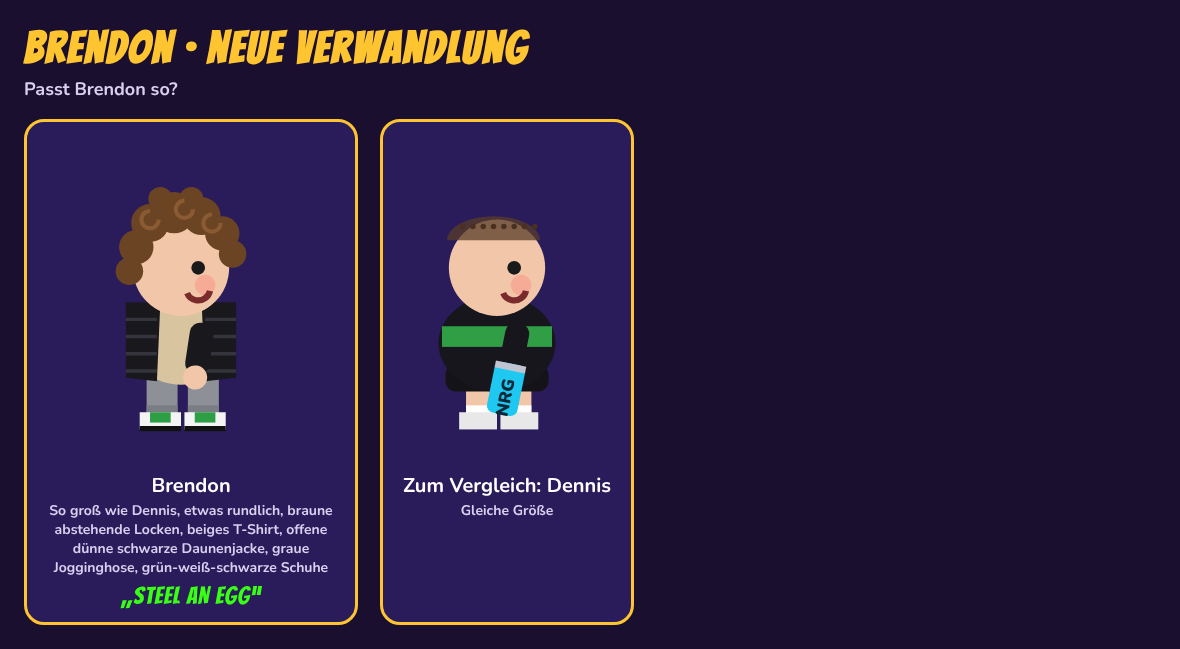
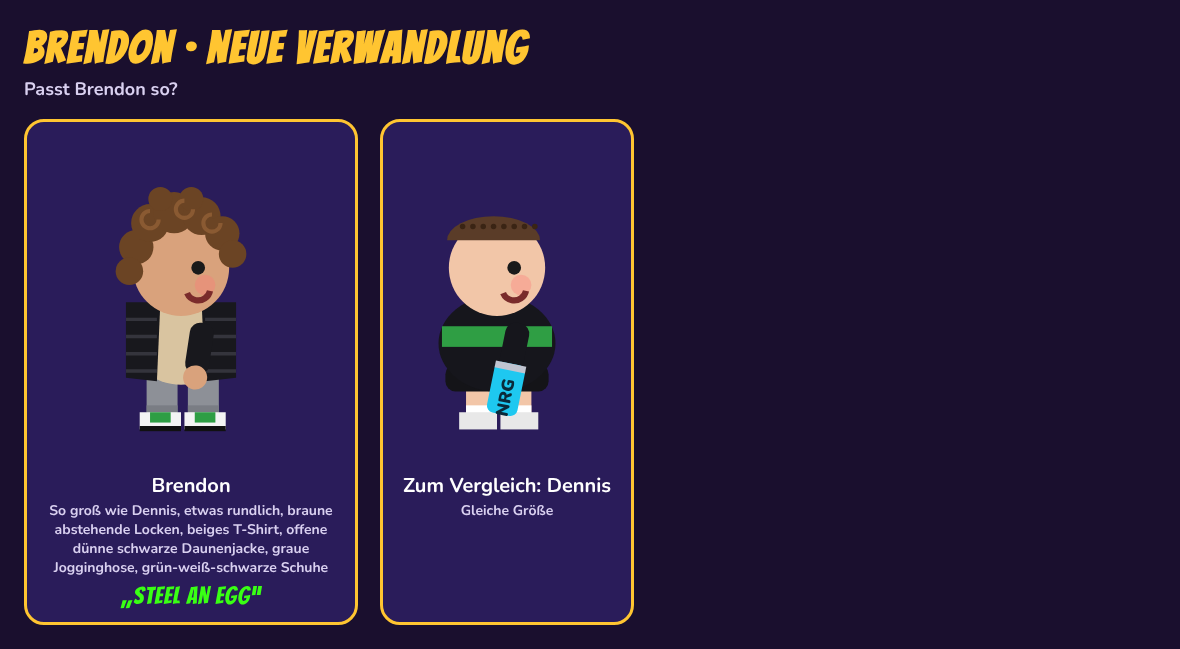
Schnitzel game: Brendon in randomizer, darker skin; solid Dennis hair; sharper pixel previews
Claude-Session: https://claude.ai/code/session_01KzaX9nFBeb8gAYhtxjVcqD

Changed region(s): [[0.0915, 0.339, 0.2136, 0.4931], [0.3966, 0.339, 0.4576, 0.3698], [0.1525, 0.5547, 0.1831, 0.6163]]

diff --git a/kaskade/web/tim-und-das-xxl-schnitzel.html b/kaskade/web/tim-und-das-xxl-schnitzel.html
@@ -475,7 +475,7 @@ function helpModal(back) {
     <li><b>Wandsprung:</b> An eine Wand springen, Richtung Wand halten (du rutschst langsamer) und HOPP drücken. Danach ist dein Doppelsprung wieder aufgeladen. Höchstens 2 Wandsprünge, bevor du wieder auf dem Boden landest, und nie zweimal hintereinander an derselben Wand.</li>
     <li><b>Tastatur:</b> Pfeiltasten oder A/D, Leertaste oder W zum Springen, P für Pause.</li>
     <li><b>PING</b> (Taste F): Tischtennisbälle schießen. Im Bosskampf immer, sonst nur als Rolf.</li>
-    <li><b>2 XXL-Schnitzel</b> in einem Level verwandeln Tim für dieses Level zufällig in Rolf, Lena Laux oder Dennis.</li>
+    <li><b>2 XXL-Schnitzel</b> in einem Level verwandeln Tim für dieses Level zufällig in Rolf, Lena Laux, Dennis oder Brendon.</li>
     <li><b>Versteckte Outfits</b> liegen in schweren Extra-Passagen der Kapitel 4 bis 6. Anziehen kannst du sie im Menü unter „Outfits“.</li>
     <li><b>Grüne Tassen</b> sammeln. Alle 100 Tassen gibt es ein Extraleben.</li>
     <li><b>XXL-Schnitzel:</b> drei gut versteckte pro Level.</li>
@@ -702,6 +702,7 @@ function step() {
             G.form = "opa"; G.ttChar = TT_CHARS[Math.floor(Math.random() * TT_CHARS.length)];
             G.p.inv = Math.max(G.p.inv, 60); burst(p.x + p.w / 2, p.y + p.h / 2, "#ffffff", 40); sfx("boss");
             const nm = TT_NAMES[G.ttChar]; setTimeout(() => G && !G.done && banner(`VERWANDLUNG: ${nm}!`), 900);
+            if (G.ttChar === "brendon") setTimeout(() => G && !G.done && banner("STEEL AN EGG"), 2600);
           } }
         updateHud();
       }
@@ -850,7 +851,7 @@ function faroStep() {
   }
 }
 // Randomizer: 2 schnitzel turn Tim into one of these table-tennis players for the rest of the level.
-const TT_CHARS = ["rolf", "lena", "dennis"];
+const TT_CHARS = ["rolf", "lena", "dennis", "brendon"];
 const TT_NAMES = { rolf: "ROLF", lena: "LENA LAUX", dennis: "DENNIS", brendon: "BRENDON" };
 function damageBoss(n) {
   const b = G.boss; if (!b || b.hp <= 0) return;
@@ -954,7 +955,7 @@ const SPRITES = {
     legs("#f2c6a8", "#e8e8e8", 0, "#fff"); ctx.fillStyle = "#141418"; rr(-15, -18, 30, 8, 3); ctx.fill();
     ctx.fillStyle = "#16161c"; ctx.beginPath(); ctx.ellipse(0, -24, 17, 14, 0, 0, Math.PI * 2); ctx.fill(); ctx.fillStyle = "#2f9e44"; ctx.fillRect(-16, -29, 32, 6);
     arm("#16161c", "#f2c6a8", .2, () => { ctx.fillStyle = "#1ec8f0"; rr(-4, 12, 9, 15, 2); ctx.fill(); ctx.fillStyle = "#c0c4d0"; ctx.fillRect(-4, 12, 9, 2); ctx.fillStyle = "#0a2a3a"; ctx.font = "900 5px Nunito"; ctx.textAlign = "center"; ctx.save(); ctx.translate(.5, 22); ctx.rotate(-Math.PI / 2); ctx.fillText("NRG", 0, 2); ctx.restore(); });
-    face({ skin: "#f2c6a8", hw: 14, hair: () => { ctx.fillStyle = "rgba(90,60,40,.75)"; ctx.beginPath(); ctx.ellipse(-1, -54, 13.5, 7, 0, Math.PI, 0); ctx.fill(); for (let i = -10; i < 12; i += 3) circ(i, -58, .8, "#4a3020"); } });
+    face({ skin: "#f2c6a8", hw: 14, hair: () => { ctx.fillStyle = "#5a3c28"; ctx.beginPath(); ctx.ellipse(-1, -54, 13.5, 7, 0, Math.PI, 0); ctx.fill(); for (let i = -10; i < 12; i += 3) circ(i, -58, .8, "#3a2414"); } });
   },
   faroo_1900(w = 60) {
     const hw = w / 2;
@@ -1055,6 +1056,26 @@ SPRITES.rolf_default = () => {
   ctx.fillStyle = "#16161c"; rr(-15, -34, 30, 20, 8); ctx.fill(); ctx.fillStyle = "#7a1420"; ctx.fillRect(-15, -29, 30, 7);
   arm("#16161c", "#e9b896", -.3, () => { ctx.fillStyle = "#7a4a1a"; ctx.fillRect(-1, 15, 4, 9); ctx.fillStyle = "#d4202a"; ctx.beginPath(); ctx.ellipse(1, 30, 8, 9, 0, 0, Math.PI * 2); ctx.fill(); });
   face({ skin: "#efc3a4", glasses: true, hair: () => { ctx.strokeStyle = "#8a8580"; ctx.lineWidth = 1.2; for (let k = -6; k <= 6; k += 3) { ctx.beginPath(); ctx.moveTo(k, -58); ctx.quadraticCurveTo(k + 2, -63, k + 4, -59); ctx.stroke(); } } });
+};
+SPRITES.brendon = () => {
+  ctx.scale(.86, .86);
+  // grey joggers + green/white/black sneakers
+  ctx.fillStyle = "#8d9097"; ctx.fillRect(-10, -16, 9, 13); ctx.fillRect(2, -16, 9, 13);
+  ctx.fillStyle = "#7a7d84"; ctx.fillRect(-10, -6, 9, 2); ctx.fillRect(2, -6, 9, 2);
+  for (const x of [-12, 1]) { ctx.fillStyle = "#f4f4f4"; ctx.fillRect(x, -4, 12, 5); ctx.fillStyle = "#2e9e44"; ctx.fillRect(x + 3, -4, 6, 3); ctx.fillStyle = "#111"; ctx.fillRect(x, 0, 12, 1.5); }
+  // beige tee, slightly chubby belly
+  ctx.fillStyle = "#d9c4a0"; ctx.beginPath(); ctx.ellipse(0, -25, 15, 13, 0, 0, Math.PI * 2); ctx.fill();
+  // open thin black down jacket (quilted)
+  ctx.fillStyle = "#18181d";
+  ctx.beginPath(); ctx.moveTo(-16, -36); ctx.lineTo(-6, -36); ctx.lineTo(-7, -13); ctx.lineTo(-16, -14); ctx.closePath(); ctx.fill();
+  ctx.beginPath(); ctx.moveTo(16, -36); ctx.lineTo(6, -36); ctx.lineTo(7, -13); ctx.lineTo(16, -14); ctx.closePath(); ctx.fill();
+  ctx.strokeStyle = "#34343c"; ctx.lineWidth = 1; for (let y = -31; y < -14; y += 5) { ctx.beginPath(); ctx.moveTo(-16, y); ctx.lineTo(-7, y); ctx.moveTo(7, y); ctx.lineTo(16, y); ctx.stroke(); }
+  arm("#18181d", "#d9a27c", .15);
+  // head with brown curly sticking-out hair
+  face({ skin: "#d9a27c", hw: 14, hair: () => {
+    for (const [x, y, r] of [[-13, -52, 5], [-9, -59, 5.5], [-2, -62, 6], [6, -61, 5.5], [12, -56, 5], [15, -50, 4], [-15, -45, 4], [3, -66, 3.5], [-6, -66, 3.5]]) circ(x, y, r, "#6b4424");
+    for (const [x, y] of [[-9, -60], [1, -63], [9, -59]]) { ctx.strokeStyle = "#8a5a32"; ctx.lineWidth = 1.2; ctx.beginPath(); ctx.arc(x, y, 2.5, 0, Math.PI * 1.5); ctx.stroke(); }
+  } });
 };
 // Story portrait overlays: body goes under the neck, top (hair/hats) over everything.
 const splitOver = (str, marker) => { const i = str.indexOf(marker); return { body: str.slice(0, i), top: str.slice(i) }; };
